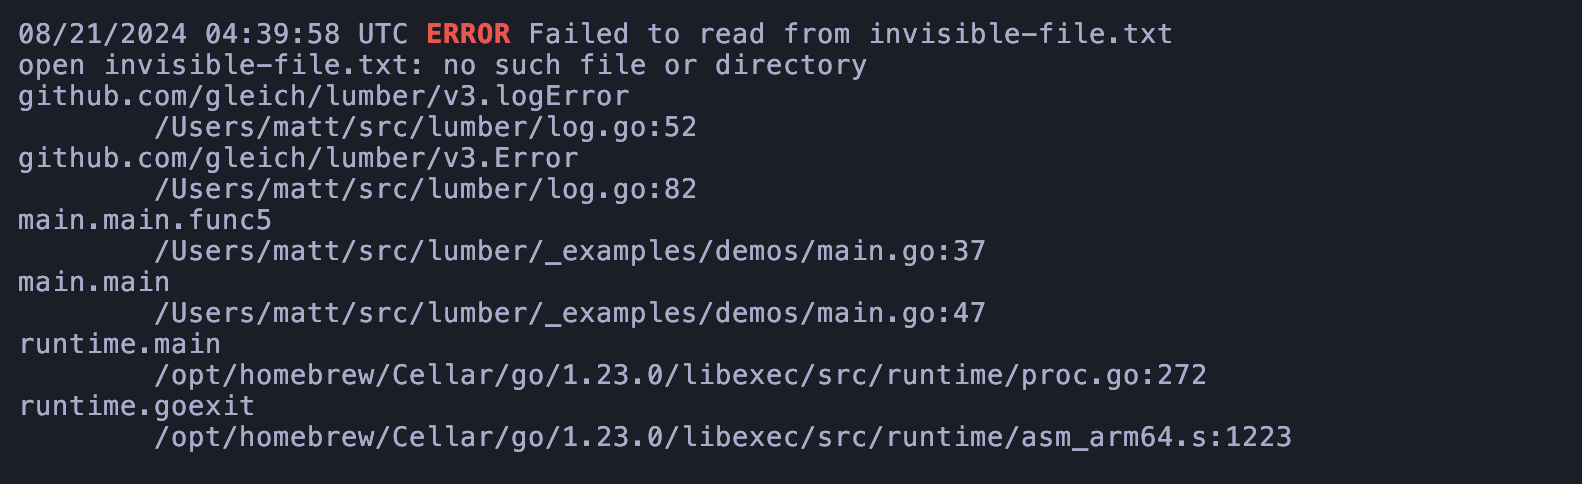
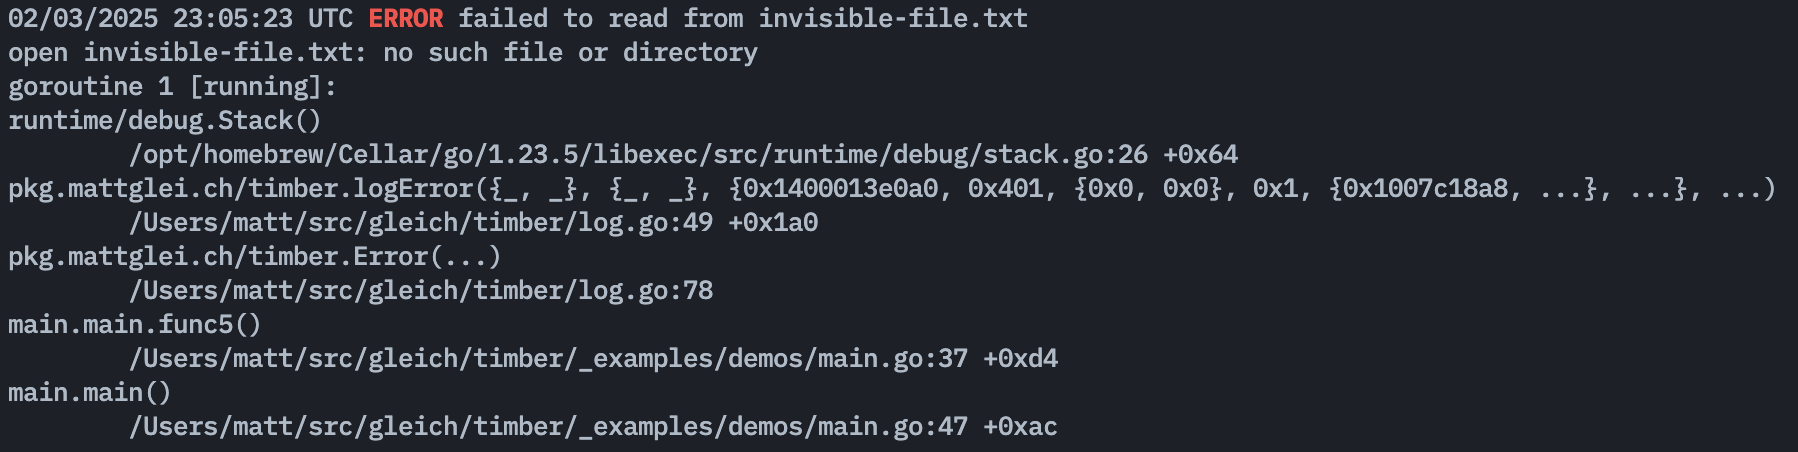
docs: update demo images

Changed region(s): [[0.0, 0.0, 0.8982, 0.9912], [0.9292, 0.4027, 0.9912, 0.4336]]

diff --git a/_examples/demos/main.go b/_examples/demos/main.go
@@ -11,34 +11,37 @@ import (
 func main() {
 	demos := []func(){
 		func() {
-			timber.Done("Loaded up the program!")
+			timber.Done("loaded up the program!")
 			time.Sleep(2 * time.Second)
-			timber.Done("Waited 2 seconds")
+			timber.Done("waited 2 seconds")
 		},
 		func() {
-			timber.Info("Getting the current year")
+			timber.Info("getting the current year")
 			now := time.Now()
-			timber.Info("Current year is", now.Year())
+			timber.Info("current year is", now.Year())
 		},
 		func() {
 			homeDir, _ := os.UserHomeDir()
-			timber.Debug("User's home dir is", homeDir)
+			timber.Debug("user's home dir is", homeDir)
 		},
 		func() {
 			now := time.Now()
 			if now.Year() != 2004 {
-				timber.Warning("Current year isn't 2004")
+				timber.Warning("current year isn't 2004")
 			}
+		},
+		func() {
+			timber.ErrorMsg("error message")
 		},
 		func() {
 			fname := "invisible-file.txt"
 			_, err := os.ReadFile(fname)
 			if err != nil {
-				timber.Error(err, "Failed to read from", fname)
+				timber.Error(err, "failed to read from", fname)
 			}
 		},
 		func() {
-			timber.FatalMsg("Fatal message")
+			timber.FatalMsg("fatal message")
 		},
 	}
 

diff --git a/_examples/stack/main.go b/_examples/stack/main.go
@@ -1,0 +1,14 @@
+package main
+
+import (
+	"os"
+
+	"pkg.mattglei.ch/timber"
+)
+
+func main() {
+	_, err := os.Stat("foo")
+	if err != nil {
+		timber.Fatal(err, "failed to check status of foo")
+	}
+}

diff --git a/README.md b/README.md
@@ -51,9 +51,9 @@ import (
 )
 
 func main() {
-    timber.Done("booted up the program!")
+    timber.Done("loaded up the program!")
     time.Sleep(2 * time.Second)
-    timber.Done("waited 2 seconds!")
+    timber.Done("waited 2 seconds")
 }
 ```
 
@@ -77,9 +77,9 @@ import (
 )
 
 func main() {
-    timber.Info("Getting the current year")
+    timber.Info("getting the current year")
     now := time.Now()
-    timber.Info("Current year is", now.Year())
+    timber.Info("current year is", now.Year())
 }
 ```
 
@@ -104,7 +104,7 @@ import (
 
 func main() {
     homeDir, _ := os.UserHomeDir()
-    timber.Debug("User's home dir is", homeDir)
+    timber.Debug("user's home dir is", homeDir)
 }
 ```
 
@@ -130,7 +130,7 @@ import (
 func main() {
     now := time.Now()
     if now.Year() != 2004 {
-        timber.Warning("Current year isn't 2004")
+        timber.Warning("current year isn't 2004")
     }
 }
 ```
@@ -158,7 +158,7 @@ func main() {
     fname := "invisible-file.txt"
     _, err := os.ReadFile(fName)
     if err != nil {
-        timber.Error(err, "Failed to read from", fname)
+        timber.Error(err, "failed to read from", fname)
     }
 }
 ```
@@ -179,7 +179,7 @@ package main
 import "pkg.mattglei.ch/timber"
 
 func main() {
-    timber.ErrorMsg("Ahhh stuff broke")
+    timber.ErrorMsg("error message")
 }
 ```
 
@@ -206,7 +206,7 @@ func main() {
     fName := "invisible-file.txt"
     _, err := os.ReadFile(fName)
     if err != nil {
-        timber.Fatal(err, "Failed to read from", fName)
+        timber.Fatal(err, "failed to read from", fName)
     }
 }
 ```
@@ -227,7 +227,7 @@ package main
 import "pkg.mattglei.ch/timber"
 
 func main() {
-    timber.FatalMsg("Ahhh stuff broke")
+    timber.FatalMsg("fatal message")
 }
 ```
 
@@ -253,7 +253,7 @@ func main() {
     timber.SetTimeFormat("Mon Jan 2 15:04:05 MST 2006")
     timber.SetFatalExitCode(0)
 
-    timber.Done("Calling from custom logger")
+    timber.Done("calling from custom logger")
 }
 ```
 
